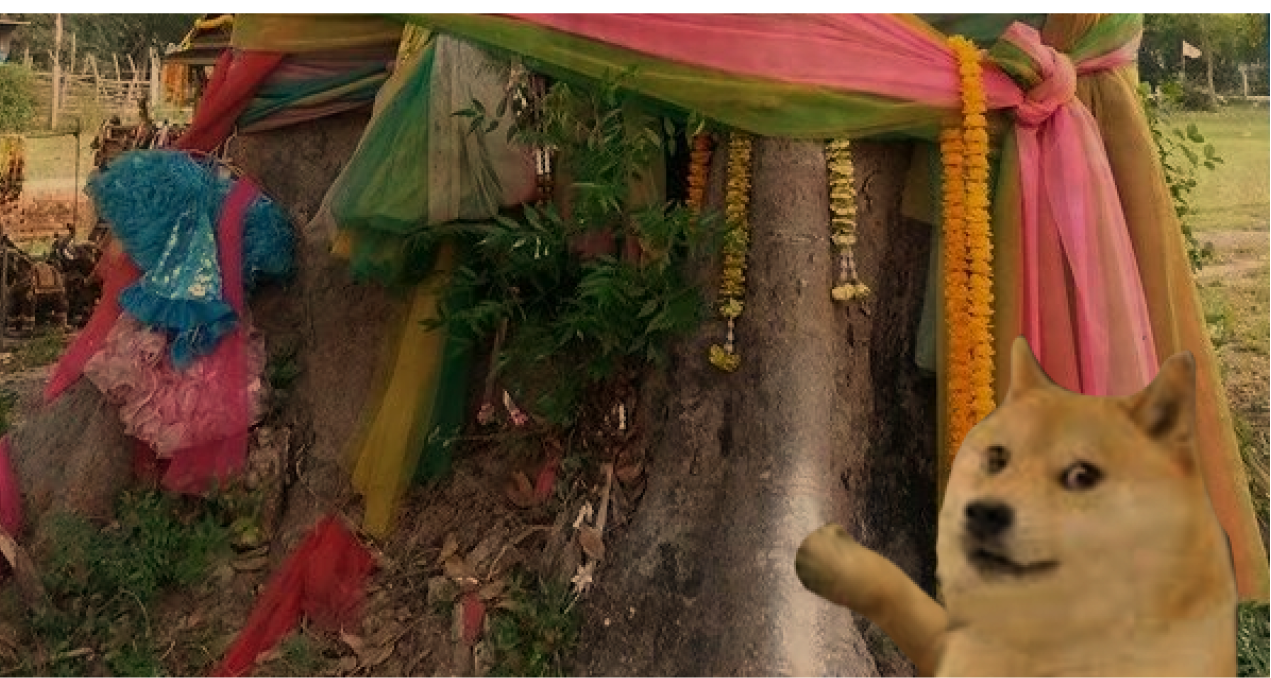
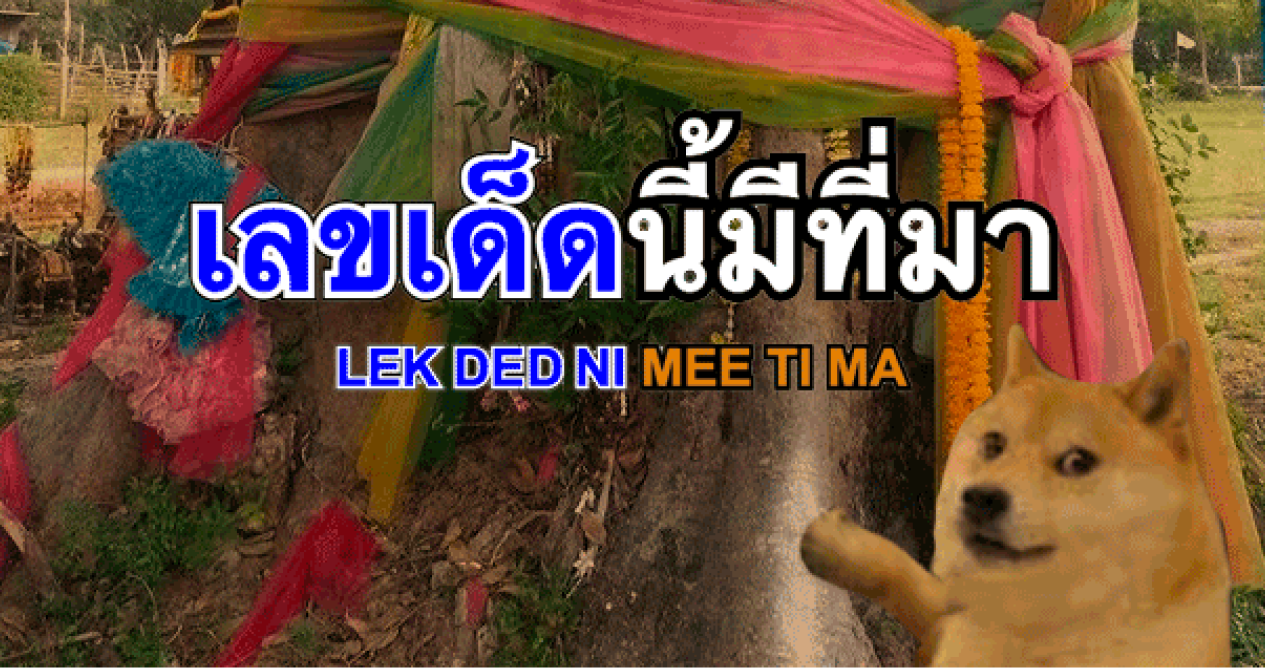
[metadata] add layout metadata and huay page metadata, update image

diff --git a/app/layout.tsx b/app/layout.tsx
@@ -8,6 +8,18 @@ export const metadata = {
   title: 'ขูดหวย | แบ่งปันแรงบันดาลใจขูดหวย',
   description:
     'แบ่งปันประสบการณ์ซื้อหวย ลอตเตอรี่ งวดนี้งวดไหน มีเลขเด็ดอะไร โดนหวยแดกหรือกินหวยมาแชร์แรงบันดาลใจกัน',
+  openGraph: {
+    title: 'ขูดหวย | แบ่งปันแรงบันดาลใจขูดหวย',
+    description:
+      'แบ่งปันประสบการณ์ซื้อหวย ลอตเตอรี่ งวดนี้งวดไหน มีเลขเด็ดอะไร โดนหวยแดกหรือกินหวยมาแชร์แรงบันดาลใจกัน',
+    url: 'https://koodhuay.space',
+    images: [
+      {
+        url: 'https://koodhuay.space/og.png',
+      },
+    ],
+    type: 'website',
+  },
 }
 
 export default function RootLayout({
@@ -21,7 +33,7 @@ export default function RootLayout({
         <Providers>
           <div className='max-w-3xl mx-auto w-full px-2'>
             {/*eslint-disable-next-line @next/next/no-img-element*/}
-            <img src='/home/doge-banner.png' alt='banner' />
+            <img src='/home/doge-banner.gif' alt='banner' className='w-full' />
             <div className='py-10'>{children}</div>
           </div>
         </Providers>

diff --git a/app/huays/[id]/page.tsx b/app/huays/[id]/page.tsx
@@ -1,5 +1,32 @@
 import axios from '@/utils/axios'
 import HuayClientPage from './client-page'
+import { Metadata } from 'next'
+
+export async function generateMetadata({
+  params,
+}: {
+  params: { id: string }
+}): Promise<Metadata> {
+  const {
+    data: { huay },
+  } = await axios.get(`/api/v1/huays/${params.id}`)
+
+  return {
+    title: `เลขอวยอันทรงเกียรติ - ${huay.number}`,
+    description: huay.description,
+    openGraph: {
+      title: `เลขอวยอันทรงเกียรติ - ${huay.number}`,
+      description: huay.description,
+      url: 'https://koodhuay.space',
+      images: [
+        {
+          url: 'https://koodhuay.space/og.png',
+        },
+      ],
+      type: 'website',
+    },
+  }
+}
 
 export default async function HuayPage({ params }: { params: { id: string } }) {
   const {
